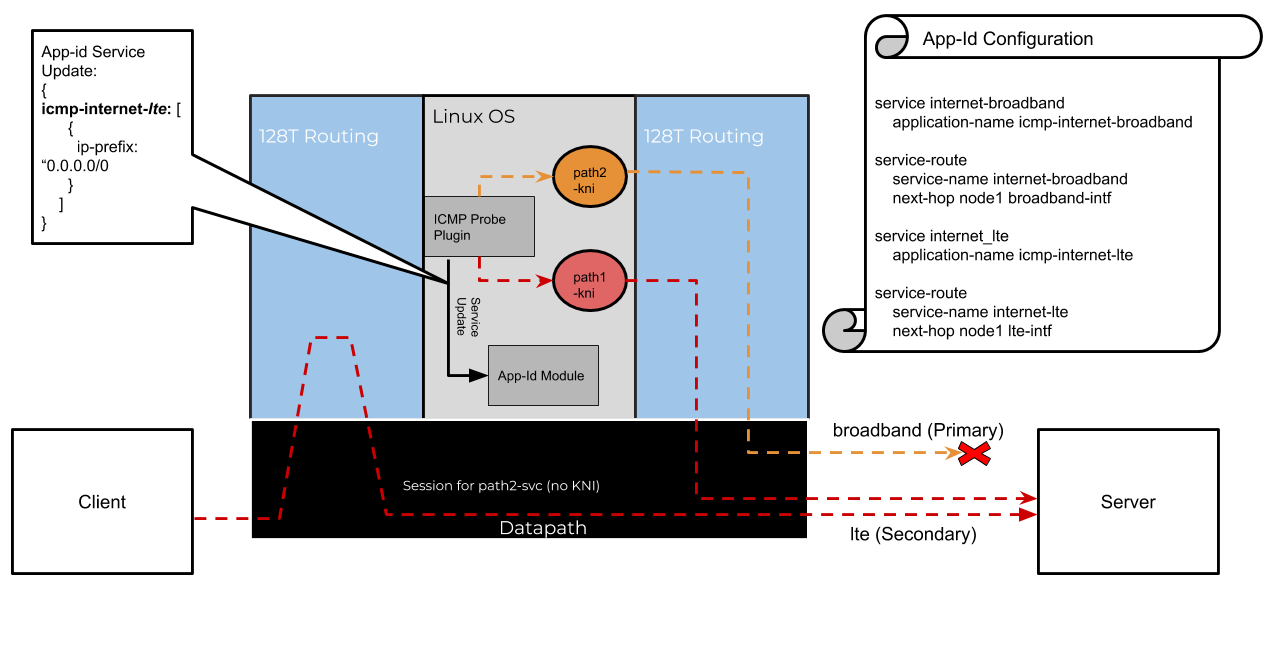
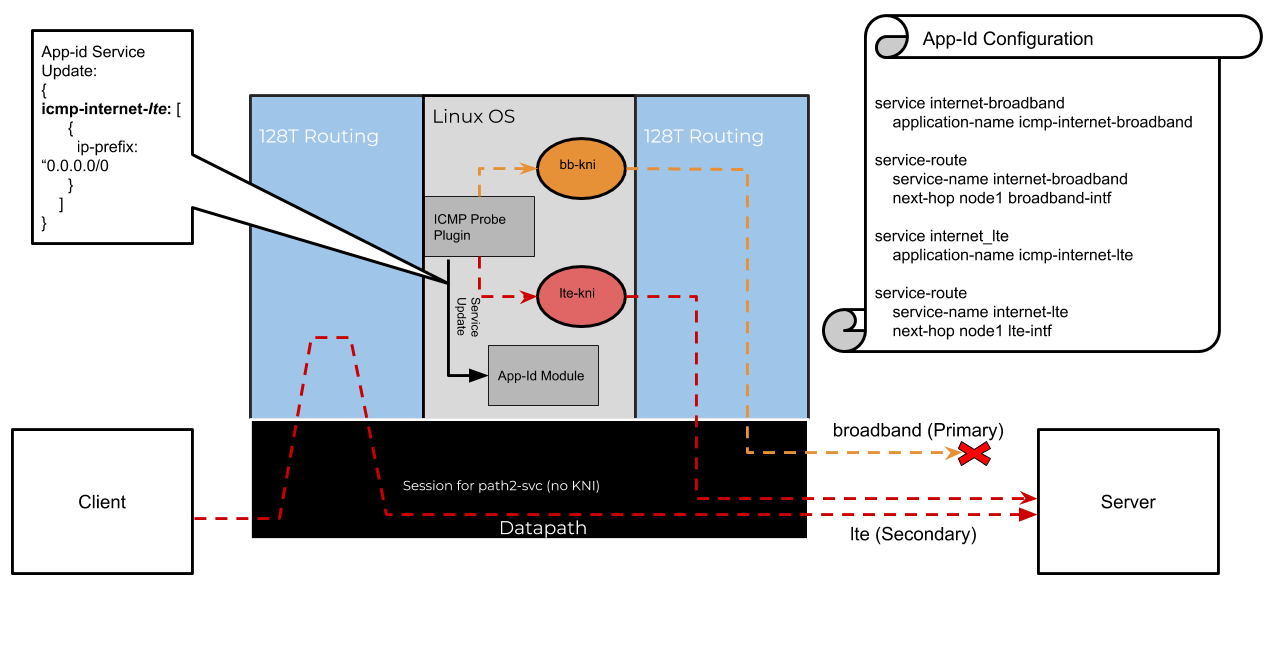
Fix graphics

Changed region(s): [[0.3741, 0.1805, 0.5924, 0.3308], [0.3741, 0.3609, 0.53, 0.5113]]

diff --git a/docs/plugin_icmp_reachability_detection.md b/docs/plugin_icmp_reachability_detection.md
@@ -218,7 +218,7 @@ The following considerations should be made while configuring the service-route 
 
 
 :::note
-The plugin can support any number of paths to be monitored for activity. Each of the path must have a unique vector-priority associated with them to determine the preference order.
+The plugin can support any number of paths to be monitored for activity. Each of th path must have a unique vector-priority associated with them to determine the preference order.
 :::
 
 ## Triggering Manual Failover Or Recovery
